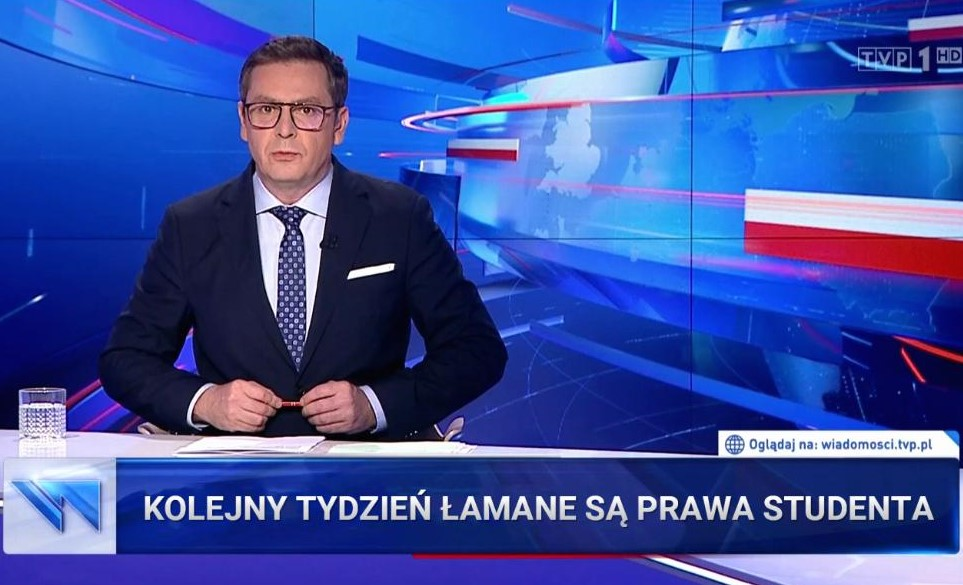
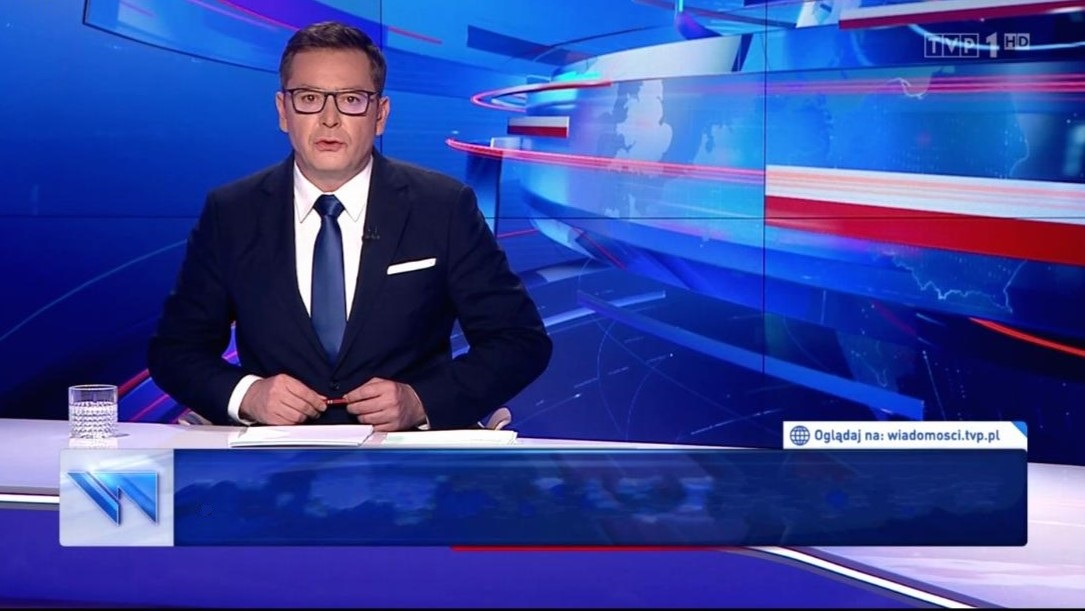
pisowiec

diff --git a/Glowna/glownastyle.css b/Glowna/glownastyle.css
@@ -100,59 +100,128 @@ h3{
 
 
 /*Aktualnosci*/
-.blog-post_title {
-    font-size: 35px;
-    font-family: 'news';
-    text-align: left;
-    margin-bottom: 10px;
-}
-
 .blog-post {
-    width: 75%;
-    margin: 6rem auto;
-    padding: 20px;
-    background-color: rgba(178, 187, 183, 0.8);
-    display: flex;
-    border-radius: .8rem;
-}
-
-.blog-post_info {
+    margin-top: 50px;
     display: flex;
     flex-direction: column;
+    align-items: center;
+    margin-bottom: 50px;
+}
+
+.up {
+    background-color: #7a0e9e;
+    width: 100%; /* Ustaw szerokość na 100%, aby dostosować się do kontenera nadrzędnego */
+    max-width: 1000px; /* Ustaw maksymalną szerokość dla daty */
+    box-sizing: border-box;
+    padding: 10px;
+    text-align: center;
     font-family: 'news';
-    text-align: left;
-    margin: 0;
-    padding: 0;
-    flex: 1; /* Nowa linia: aby zajmowało dostępną przestrzeń */
-}
-
-.blog-post_img {
-    margin-left: 20px; /* Nowa linia: Dodatkowy margines od lewej strony */
-    display: flex;
-}
-
-.blog-post_img img {
-    width: 550px;
-    height: auto;
-    object-fit: cover;
-    border-radius: .8rem;
 }
 
 .blog-post_date span {
-    display: block;
-    color: #7a0e9e;
-    font-size: 15px;
-    font-weight: 600;
-    margin-bottom: 15px;
-    text-align: center;
+    color: #000000;
+    font-weight: 200;
+    font-family: 'news';
+    font-size: 20px;
 }
 
-.blog-post_text {
-    flex: 1; /* Zajmuje dostępną przestrzeń */
-    margin-left: 1px;
-    margin-right: 5px;
-    font-size: 1.4rem;
-    color: rgba(0, 0, 0, .7);
+
+.banner-card {
+    width: 100%; /* Ustaw szerokość na 100%, aby dostosować się do kontenera nadrzędnego */
+    max-width: 1000px; /* Dostosuj maksymalną szerokość obrazka według preferencji */
+    position: relative;
+}
+
+.banner-card img {
+    max-width: 100%;
+    height: auto;
+}
+
+.banner-text{
+    position: absolute;
+    top: 436px;
+    color: #FFF;
+    font-size: 40px;
+    margin-left: 170px;
+    font-family: sans-serif, arial;
+    display: flex;
+}
+
+.up h2{
+    margin-top: 20px;
+    font-size: 40px;
+    text-transform: uppercase;
+    color: #FFF;
+    letter-spacing: 5px;
+}
+
+.banner-text .child {
+    display: none;
+    overflow: hidden;
+}
+
+/* Dodajemy stylizację strzałek */
+
+.arrow {
+    background-color: rgb(122, 14, 158); 
+    color: #fff;
+    font-size: 18px;
+    padding: 10px;
+    border: none;
+    cursor: pointer;
+}
+
+#scroll-left {
+    position: absolute;
+    left: 1px; /* Dodaj odstęp od lewej strony */
+}
+
+#scroll-right {
+    position: absolute;
+    right: 1px; /* Dodaj odstęp od prawej strony */
+}
+
+.banner-card {
+    position: relative;
+}
+
+.banner-news,
+#scroll-left,
+#scroll-right {
+    position: absolute;
+    top: 75%;
+}
+
+.arrow-button{
+    background: rgb(39, 38, 38);
+    height: 60px;
+    width: 60px;
+    border-radius: 50%;
+    transition: 0.4s ease;
+}
+
+.arrow-button:hover{
+    box-shadow: 0px 0px 10px 10px rgb(122, 14, 158);
+}
+
+.arrow-button div{
+    position: absolute;
+    height: 30px;
+    width: 30px;
+    border-top: 4px solid #7a0e9e;
+    border-left: 4px solid #7a0e9e;
+    top: 15px;
+}
+
+/* Obróć lewą strzałkę o 180 stopni */
+.arrow-button.left div{
+    transform: rotate(315deg);
+    left: 18px;
+}
+
+.arrow-button.right div{
+    transform: rotate(135deg);
+    right: 18px;
 }
 
 

diff --git a/Glowna/StronaGlowna.html b/Glowna/StronaGlowna.html
@@ -40,19 +40,26 @@
 
             <!--Aktualnosci-->
             <div class="blog-post">
-                <div class="blog-post_info">
+                <div class="up">
                     <div class="blog-post_date" id="currentDateContainer">
                         <!--data.js-->
                     </div>
-                    <h1 class="blog-post_title">Aktualności</h1>
-                    <p class="blog-post_text">W dniu 26 stycznia odwołane są zajęcia z Programowania w R dla grupy 4.</p>
+                    <h2>Aktualności</h2>
                 </div>
-                <div class="blog-post_img">
-                    <img src="../Glowna/news.jpg" alt="">
+                <div class="banner-card">
+                    <button id="scroll-left" class="arrow-button left"><div></div></button>
+                    <img src="../Glowna/news.jpg">
+                    <div class="banner-text" id="bannerText">
+                        <div class="child">Kolejny dzień łamane są prawa studenta</div>
+                        <div class="child">Odwołane zajęcia z R dla grupy 4</div>
+                        <div class="child">Przeniesione zajęcia do sali 318 dla grupy 1</div>
+                    </div>
+                    <button id="scroll-right" class="arrow-button right"><div></div></button>
                 </div>
             </div>
             <script src="data.js"></script>
-
+            <script src="strzalki.js"></script>
+            
         <!-- Kontakt -->
         <section class="contact-section" id="napisz">
             <div class="container">

diff --git a/Glowna/strzalki.js b/Glowna/strzalki.js
@@ -1,0 +1,35 @@
+const bannerText = document.getElementById('bannerText');
+const scrollLeftBtn = document.getElementById('scroll-left');
+const scrollRightBtn = document.getElementById('scroll-right');
+
+let currentIndex = 0;
+
+function showCurrentText() {
+    const children = bannerText.children;
+
+    for (let i = 0; i < children.length; i++) {
+        if (i === currentIndex) {
+            children[i].style.display = 'block';
+        } else {
+            children[i].style.display = 'none';
+        }
+    }
+}
+
+function scrollLeft() {
+    currentIndex = (currentIndex - 1 + bannerText.children.length) % bannerText.children.length;
+    showCurrentText();
+}
+
+function scrollRight() {
+    currentIndex = (currentIndex + 1) % bannerText.children.length;
+    showCurrentText();
+}
+
+// Dodajemy obsługę kliknięć
+scrollLeftBtn.addEventListener('click', scrollLeft);
+scrollRightBtn.addEventListener('click', scrollRight);
+
+// Pokazujemy pierwszy tekst
+showCurrentText();
+
